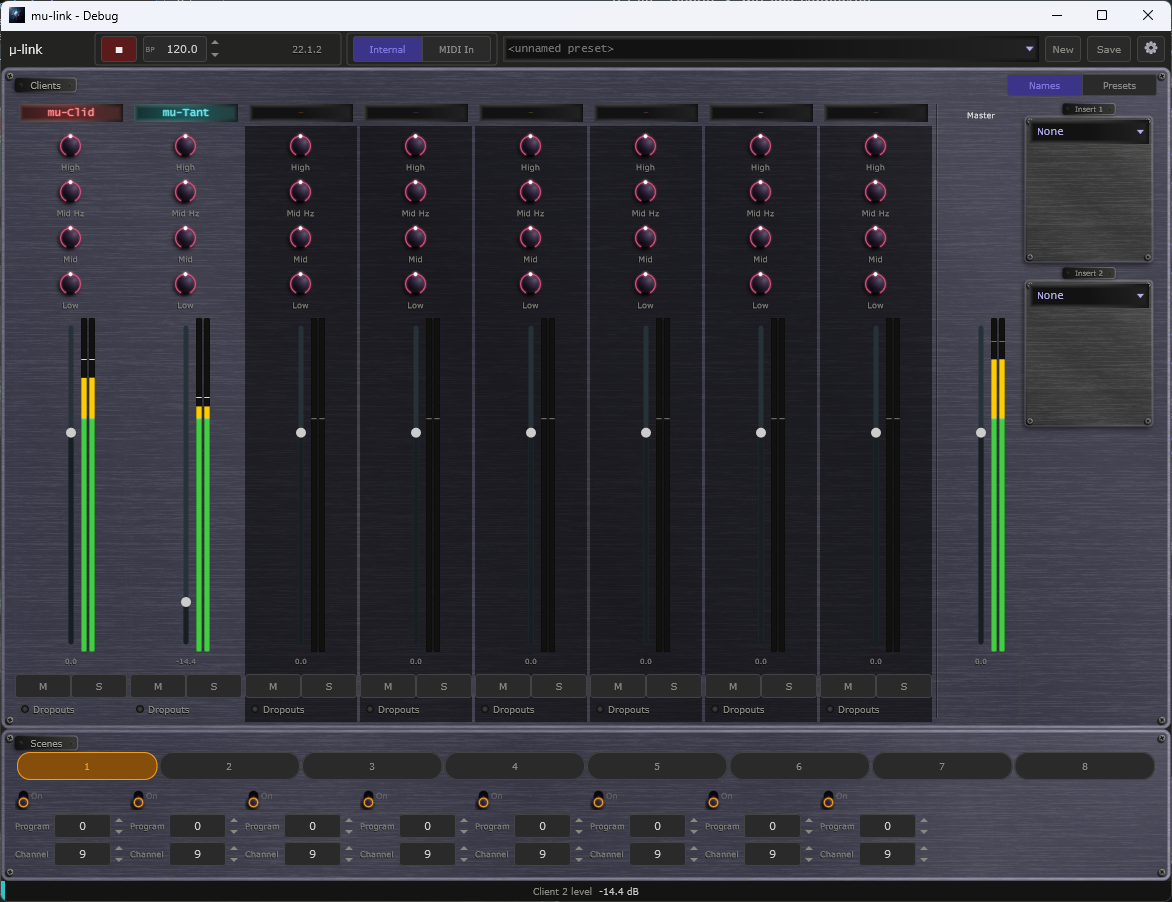
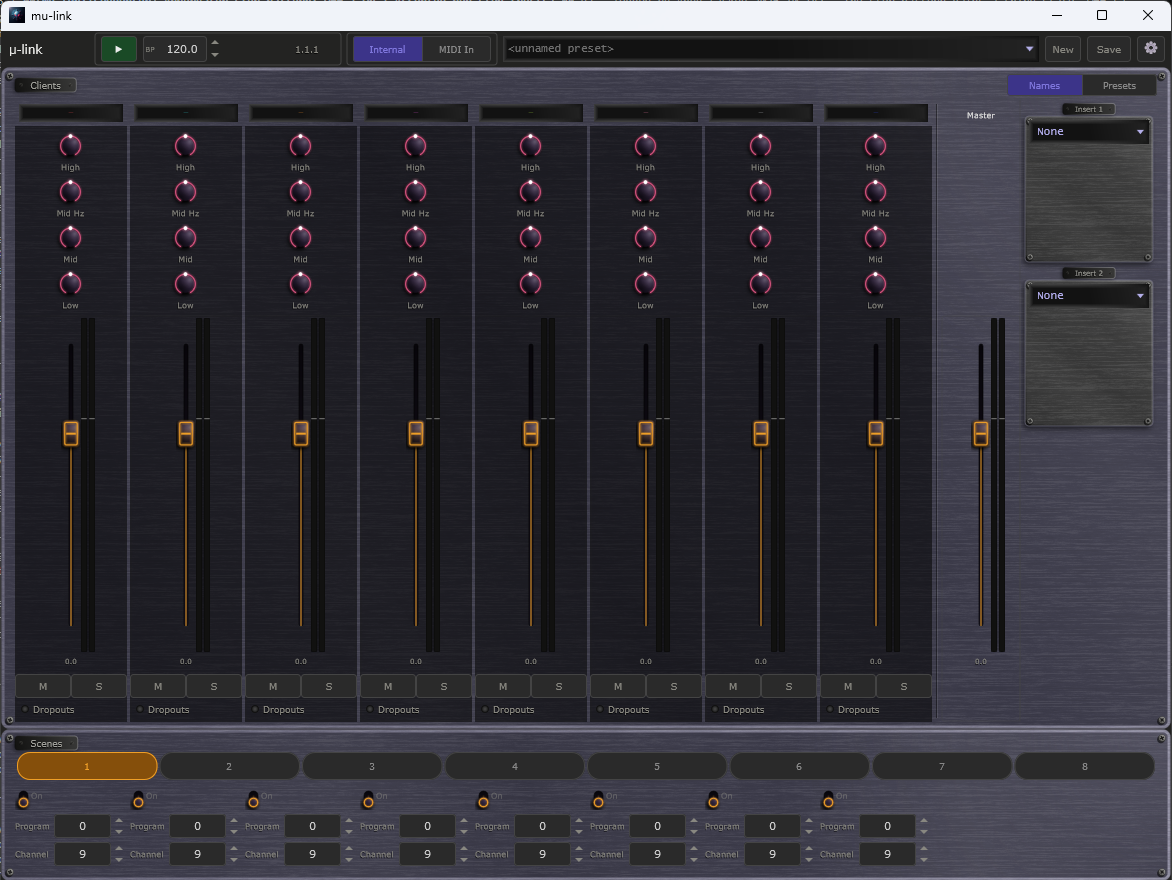
Site: clean Release mu-Link screenshot (cropped 1172x880), cache-buster v=1411, remove stale mu-link.png

diff --git a/site/mu-link.html b/site/mu-link.html
@@ -9,7 +9,7 @@
   <meta property="og:url" content="https://transwarp.me/mu-link">
   <meta property="og:title" content="μ-link | The sync hub and performance mixer for the μ-series | Transwarp Development Project">
   <meta property="og:description" content="μ-link is a free desktop app that sums your μ-series apps to one output, keeps them on one sample-accurate clock and mixes them live. Freeware for Windows.">
-  <meta property="og:image" content="https://transwarp.me/mu-link_window.png">
+  <meta property="og:image" content="https://transwarp.me/mu-link_window.png?v=1411">
   <link rel="preconnect" href="https://fonts.googleapis.com">
   <link rel="preconnect" href="https://fonts.gstatic.com" crossorigin>
   <link href="https://fonts.googleapis.com/css2?family=Syne:wght@700;800&family=Space+Mono:wght@400;700&family=Outfit:wght@300;400;500;600&display=swap" rel="stylesheet">
@@ -324,7 +324,7 @@ footer { border-top: 1px solid var(--border); padding: 48px 0 36px; }
             <a href="mu-link-releases.html" class="btn-secondary btn-soon">Release notes</a>
           </div>
         </div>
-        <div class="hero-visual fade-3"><img src="mu-link_window.png" alt="The μ-link window: a mixer strip for each connected app, a master strip with two inserts, and eight scenes along the bottom" width="1172" height="902"></div>
+        <div class="hero-visual fade-3"><img src="mu-link_window.png?v=1411" alt="The μ-link window: a mixer strip for each connected app, a master strip with two inserts, and eight scenes along the bottom" width="1172" height="880"></div>
       </div>
     </div>
   </section>
@@ -377,7 +377,7 @@ footer { border-top: 1px solid var(--border); padding: 48px 0 36px; }
 
       <div class="screenshots-wrap">
         <div class="screenshot-primary">
-          <div class="ss-placeholder"><img src="mu-link_window.png" alt="μ-link with μ-clid and μ-tant connected: two live mixer strips, the master strip with two inserts, and the eight scenes" loading="lazy"></div>
+          <div class="ss-placeholder"><img src="mu-link_window.png?v=1411" alt="μ-link with μ-clid and μ-tant connected: two live mixer strips, the master strip with two inserts, and the eight scenes" loading="lazy"></div>
           <div class="ss-caption prod-cap">
             <div class="sc-label"><span class="mu-d">μ</span>-link window</div>
             <h3>Your rig on one screen.</h3>

diff --git a/site/free.html b/site/free.html
@@ -9,7 +9,7 @@
   <meta property="og:url" content="https://transwarp.me/free">
   <meta property="og:title" content="Freeware | Transwarp Development Project">
   <meta property="og:description" content="μ-clid MIDI and μ-link are freeware from Transwarp Development Project: a Euclidean MIDI effect and the sync hub and performance mixer for the μ-series.">
-  <meta property="og:image" content="https://transwarp.me/mu-link_window.png">
+  <meta property="og:image" content="https://transwarp.me/mu-link_window.png?v=1411">
   <link rel="preconnect" href="https://fonts.googleapis.com">
   <link rel="preconnect" href="https://fonts.gstatic.com" crossorigin>
   <link href="https://fonts.googleapis.com/css2?family=Syne:wght@700;800&family=Space+Mono:wght@400;700&family=Outfit:wght@300;400;500;600&display=swap" rel="stylesheet">
@@ -358,7 +358,7 @@ footer { border-top: 1px solid var(--border); padding: 48px 0 36px; }
         </div>
         <div>
           <div class="free-visual">
-            <img src="mu-link_window.png" alt="The μ-link window with μ-clid and μ-tant connected" loading="lazy">
+            <img src="mu-link_window.png?v=1411" alt="The μ-link window with μ-clid and μ-tant connected" loading="lazy">
           </div>
         </div>
       </div>

diff --git a/site/index.html b/site/index.html
@@ -496,7 +496,7 @@ footer { border-top: 1px solid var(--border); padding: 48px 0 36px; }
         </article>
         <article class="pcard link">
           <div class="pc-accent-bar"></div>
-          <a class="pc-shot" href="mu-link.html" tabindex="-1" aria-hidden="true"><img src="mu-link_window.png" alt="The μ-link mixer with two connected apps and eight scenes" width="1172" height="902" loading="lazy"></a>
+          <a class="pc-shot" href="mu-link.html" tabindex="-1" aria-hidden="true"><img src="mu-link_window.png?v=1411" alt="The μ-link mixer with two connected apps and eight scenes" width="1172" height="880" loading="lazy"></a>
           <div class="pc-body">
             <div class="pc-top"><div class="pc-label">Sync hub and performance mixer</div><span class="pc-badge free">Freeware</span></div>
             <h3 class="pc-name"><span class="mu-d">μ</span>-link</h3>
